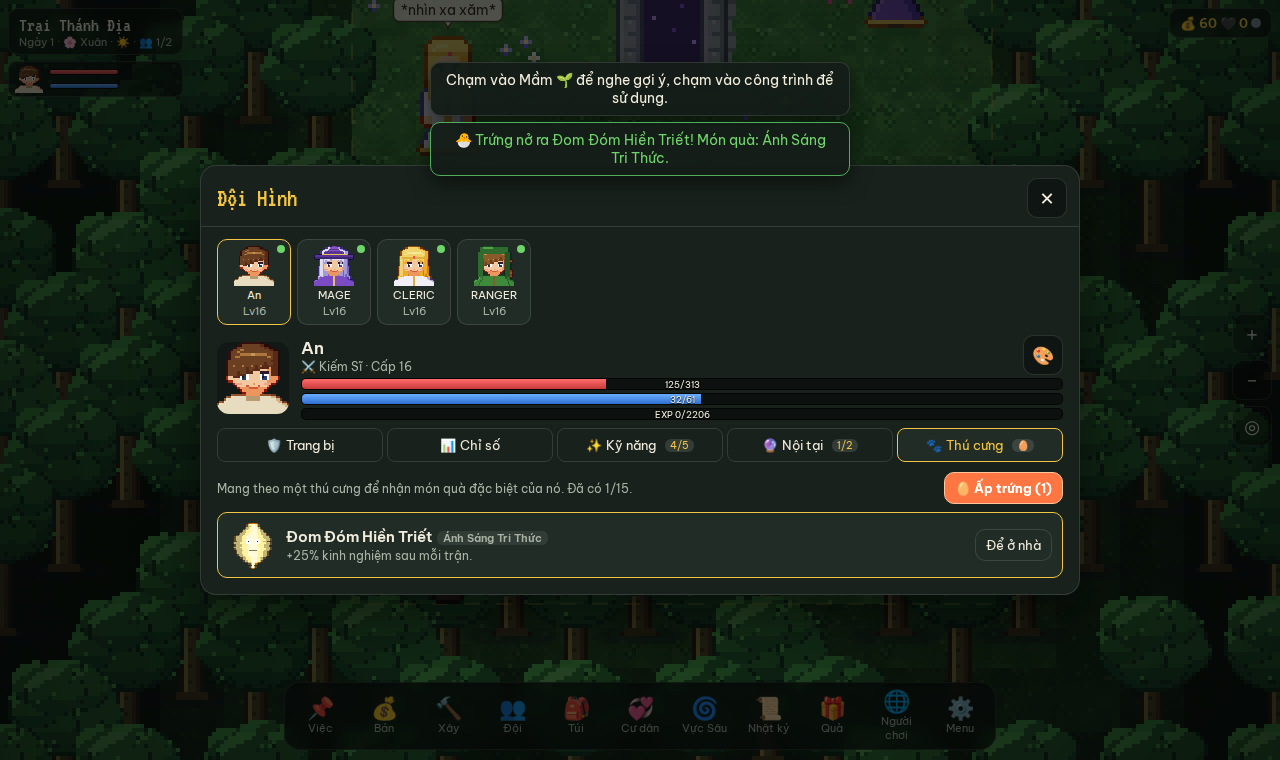
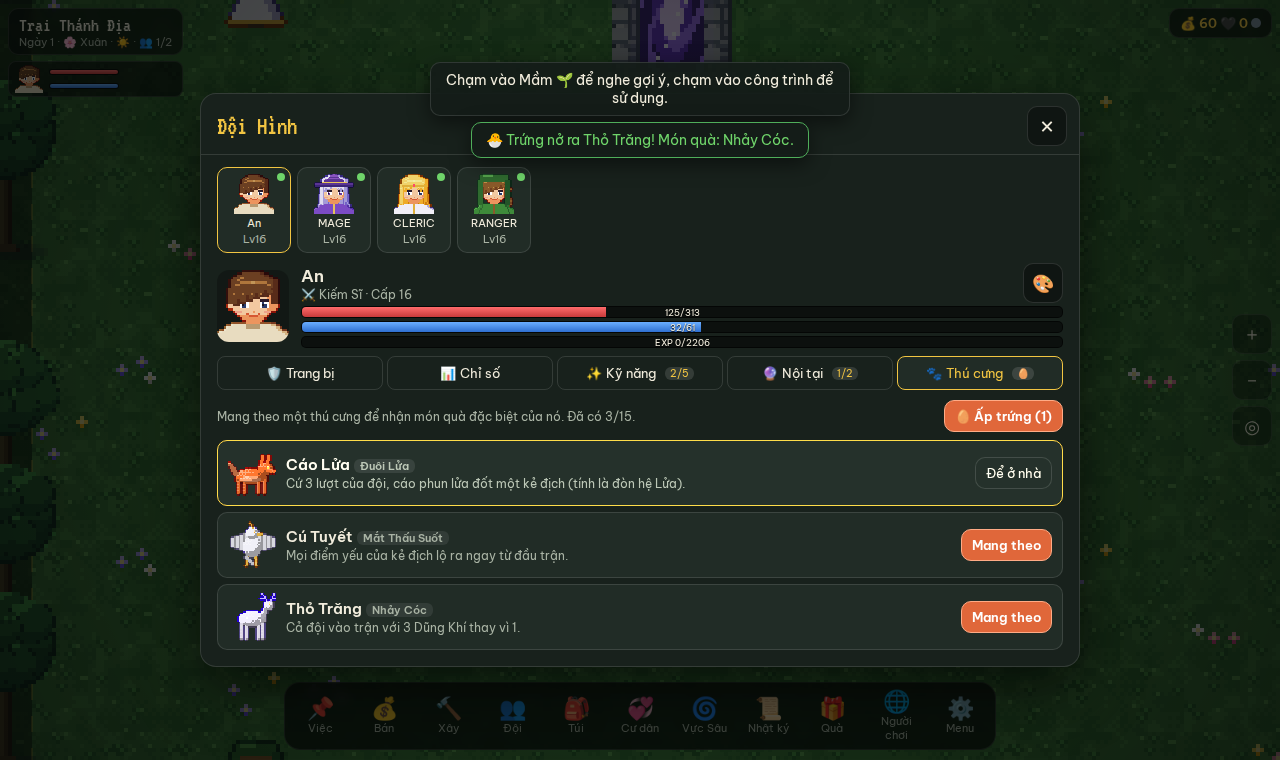
Build the same thing again and again without reopening the menu
After placing a building the game stays in placing mode with the next free
spot beside it selected, so a row of fences or a field of plots is just tap,
Đặt, tap, Đặt. The bar counts how many were placed and how many more the bag
can pay for; "Xong" ends it. It stops by itself only when the materials run
out, the limit is reached or the building is one of a kind. Previously only
farm plots chained. Only the first placement shows a toast.

Claude-Session: https://claude.ai/code/session_017FGjTWRNL9CGyd8AwPd9jA

diff --git a/src/screens/safezone.ts b/src/screens/safezone.ts
@@ -1,6 +1,6 @@
 import { app, type Screen } from "../app";
 import { hashString } from "../core/rng";
-import { buildingCost, canAfford, logMsg, pay, type PlacedBuilding } from "../core/state";
+import { buildingCost, canAfford, count, logMsg, pay, type PlacedBuilding } from "../core/state";
 import { BUILDINGS, BUILDING_LIST, RANK_NAMES, type BuildingCategory } from "../data/buildings";
 import { SEASON_ICONS, SEASON_NAMES, seasonOf } from "../data/items";
 import { CROP_LIFT, buildingCanvas, cropCanvas } from "../render/buildings";
@@ -129,7 +129,7 @@ export function mountSafeZone(root: HTMLElement, hooks: { enterDungeon: (floor: 
   view.camX = hero.x;
   view.camY = hero.y;
   const petPos = { x: hero.x - 1, y: hero.y };
-  let placing: { type: string; moving?: PlacedBuilding; x: number; y: number } | null = null;
+  let placing: { type: string; moving?: PlacedBuilding; x: number; y: number; built?: number } | null = null;
   const sim = new ResidentSim(g);
   let ground: HTMLCanvasElement | null = null;
   let edge: [number, number, HTMLCanvasElement][] = [];
@@ -286,10 +286,20 @@ export function mountSafeZone(root: HTMLElement, hooks: { enterDungeon: (floor: 
     const p = placing;
     const reason = canPlace(g, p.type, p.x, p.y, p.moving);
     placeBar.classList.remove("hidden");
+    const built = p.built ?? 0;
+    const label = reason ? `❌ ${reason}` : `✅ ${BUILDINGS[p.type].name} — chạm để chọn chỗ`;
     placeBar.replaceChildren(
-      h("div", { class: "chip" }, reason ? `❌ ${reason}` : `✅ ${BUILDINGS[p.type].name} — chạm để chọn chỗ`),
+      h("div", { class: "chip" }, label, built ? h("span", { class: "muted small" }, ` · đã đặt ${built}`) : null,
+        p.moving ? null : h("span", { class: "muted small" }, ` · đủ cho ${affordable(p.type)} cái`)),
       h("button", { class: "btn primary", disabled: !!reason, onclick: confirmPlace }, "✓ Đặt"),
-      h("button", { class: "btn", onclick: stopPlacing }, "✕ Huỷ"));
+      h("button", { class: "btn", onclick: stopPlacing }, built ? "✔ Xong" : "✕ Huỷ"));
+  }
+
+  /** How many more of a building the bag can pay for (capped for display). */
+  function affordable(type: string) {
+    const cost = buildingCost(type, 0);
+    const n = Math.min(99, ...Object.entries(cost).map(([id, need]) => (need > 0 ? Math.floor(count(g, id) / need) : 99)));
+    return n >= 99 ? "99+" : String(n);
   }
 
   function confirmPlace() {
@@ -308,11 +318,23 @@ export function mountSafeZone(root: HTMLElement, hooks: { enterDungeon: (floor: 
       if (p.type === "greenhouse") ensureSlots(nb);
       g.buildings.push(nb);
       logMsg(g, `Xây ${BUILDINGS[p.type].name}.`);
-      toast(`Đã xây ${BUILDINGS[p.type].name}!`, "good");
+      if (!p.built) toast(`Đã xây ${BUILDINGS[p.type].name}!`, "good");
     }
     app.dirty();
-    const again = !p.moving && p.type === "farm" && !buildLimitReason(g, "farm") && canAfford(g, buildingCost("farm", 0));
-    if (again) { placing = { type: "farm", x: p.x + 1, y: p.y }; renderPlaceBar(); updateHud(); return; }
+    // keep building the same thing: stay in placing mode, next to the one just placed,
+    // until the player is done (or it can't be built again)
+    const again = !p.moving && !buildLimitReason(g, p.type) && canAfford(g, buildingCost(p.type, 0));
+    if (again) {
+      const [w, hh] = BUILDINGS[p.type].size;
+      const next = [[p.x + w, p.y], [p.x, p.y + hh], [p.x - w, p.y], [p.x, p.y - hh]].find(([x, y]) => !canPlace(g, p.type, x, y)) ?? [p.x, p.y];
+      placing = { type: p.type, x: next[0], y: next[1], built: (p.built ?? 0) + 1 };
+      renderPlaceBar(); updateHud(); return;
+    }
+    if (!p.moving) {
+      const why = buildLimitReason(g, p.type);
+      if (why && !BUILDINGS[p.type].unique) toast(why, "info");
+      else if (!why) toast("Hết nguyên liệu để xây thêm.", "info");
+    }
     stopPlacing();
   }
 
